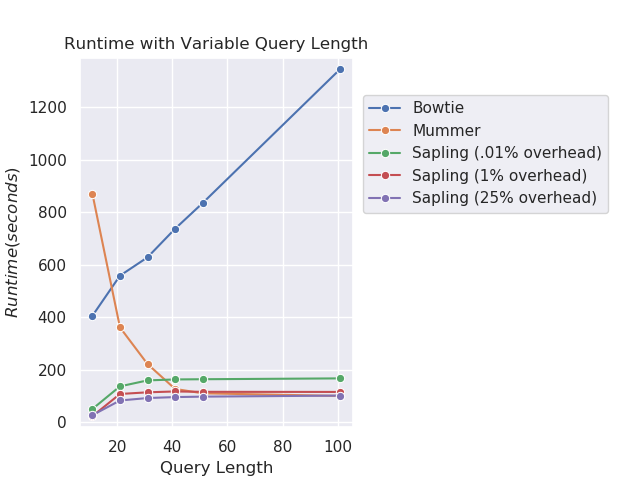
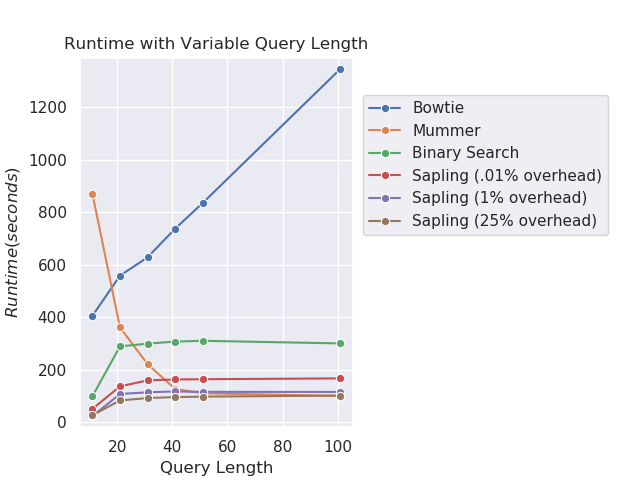
Added plot of runtime with different bowtie frequencies

Changed region(s): [[0.5625, 0.2812, 0.9375, 0.5], [0.125, 0.7188, 0.5625, 0.875], [0.2188, 0.6875, 0.5312, 0.7188]]

diff --git a/eval/VarQuery/plot_query_length_runtime.py b/eval/VarQuery/plot_query_length_runtime.py
@@ -18,10 +18,11 @@ qlengths = [11, 21, 31, 41, 51, 101]
 sapling01Runtimes = [49.4984, 135.788, 158.525, 162.19, 162.996, 166.227]
 sapling1Runtimes = [22.0612, 106.697, 113.088, 116.37, 114.941, 114.533]
 sapling25Runtimes = [25.8727, 81.8653, 91.242, 94.8738, 96.5893, 100.62]
-runtimeNames = ['Bowtie', 'Mummer', 'Sapling (.01% overhead)', 'Sapling (1% overhead)', 'Sapling (25% overhead)']
+runtimeNames = ['Bowtie', 'Mummer', 'Binary Search', 'Sapling (.01% overhead)', 'Sapling (1% overhead)', 'Sapling (25% overhead)']
 
 bowtieTimes = [405, 558, 628, 737, 835, 1347]
 mummerTimes = [870.457, 360.728, 220.997, 126.001, 109.334, 99.256]
+bsTimes = [97.93, 288.3, 298.761, 306.561, 309.613, 299.606]
 
 current_palette = sns.color_palette()
 
@@ -30,9 +31,10 @@ ax = plt.subplot(111)
 
 sns.lineplot(qlengths, bowtieTimes, marker = "o", color = pal[0])
 sns.lineplot(qlengths, mummerTimes, marker = "o", color = pal[1])
-sns.lineplot(qlengths, sapling01Runtimes, marker = "o", color = pal[2])
-sns.lineplot(qlengths, sapling1Runtimes, marker = "o", color = pal[3])
-sns.lineplot(qlengths, sapling25Runtimes, marker = "o", color = pal[4])
+sns.lineplot(qlengths, bsTimes, marker = "o", color = pal[2])
+sns.lineplot(qlengths, sapling01Runtimes, marker = "o", color = pal[3])
+sns.lineplot(qlengths, sapling1Runtimes, marker = "o", color = pal[4])
+sns.lineplot(qlengths, sapling25Runtimes, marker = "o", color = pal[5])
 plt.ylim(-20, 1390)
 
 plt.xlabel("Query Length")

diff --git a/eval/BowtieFrequency/plot_bowtie_runtime.py b/eval/BowtieFrequency/plot_bowtie_runtime.py
@@ -1,0 +1,45 @@
+'''
+A script for plotting runtime of Bowtie with different sampling frequencies
+'''
+
+import matplotlib
+matplotlib.use('Agg')
+import matplotlib.pyplot as plt
+import seaborn as sns
+import sys
+import math
+
+sns.set()
+
+pal = sns.color_palette()
+
+# Runtimes
+samplingfreqs = [1, 2, 4, 8, 16, 32, 64]
+runtimes = [315, 335, 336, 354, 412, 530, 761]
+
+sapling01time = 155.422
+sapling1time= 113.859
+sapling25time = 83.7056
+
+runtimeNames = ['Bowtie', 'Sapling 25%', 'Sapling 1%', 'Sapling .01%']
+current_palette = sns.color_palette()
+
+fig = plt.figure()
+ax = plt.subplot(111)
+
+sns.lineplot(samplingfreqs, runtimes, marker = "o", color = pal[0])
+ax.axhline(y = sapling25time, c = pal[1])
+ax.axhline(y = sapling1time, c = pal[2])
+ax.axhline(y = sapling01time, c = pal[3])
+
+plt.ylim(-20, 1390)
+
+plt.xlabel("Bowtie Sampling Frequency")
+plt.ylabel("$Runtime (seconds)$")
+plt.title('Bowtie Runtimes')
+
+box = ax.get_position()
+ax.set_position([box.x0, box.y0, box.width * 0.95, box.height])
+plt.legend(labels = runtimeNames, bbox_to_anchor=(1.01, 0.92))
+#plt.show()
+plt.savefig('bowtiefreqruntime.png')
